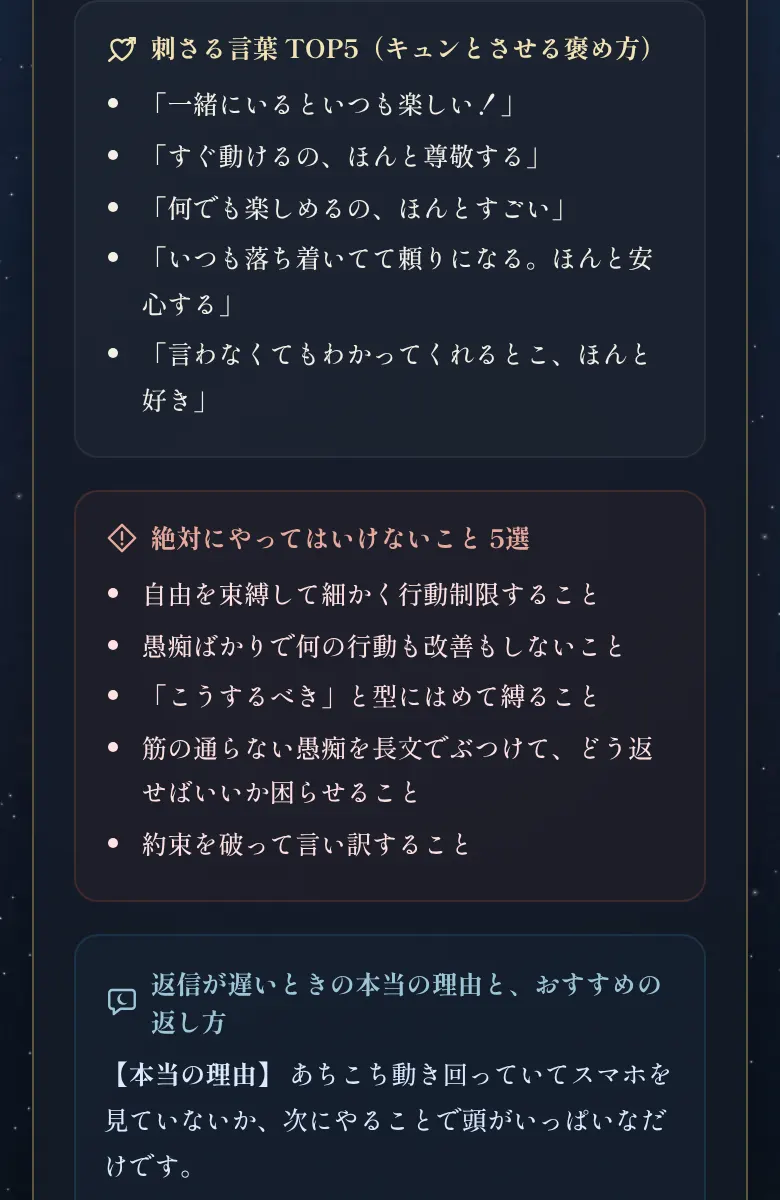
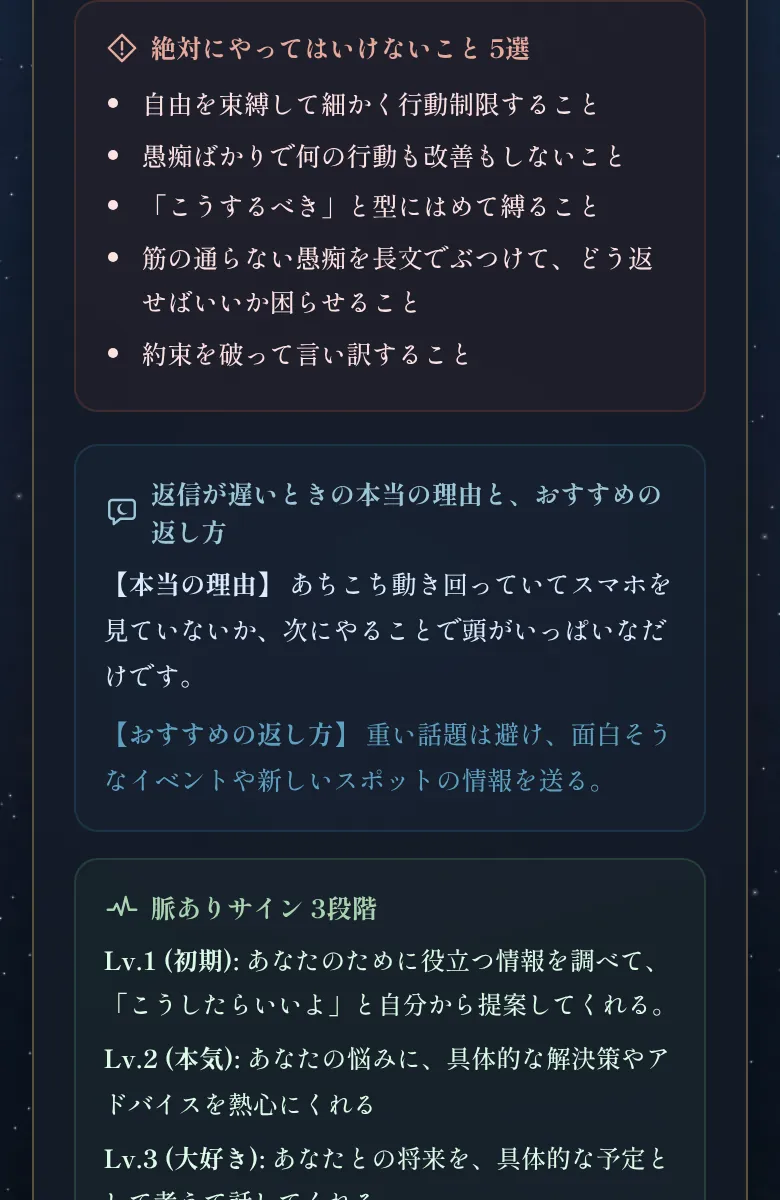
トリセツの「刺さる言葉 TOP5」を削除（LPの説明と画面イメージも「絶対にやってはいけないこと 5選」に）
Claude-Session: https://claude.ai/code/session_019582yCM5q7U2PSxyTAcm8e

diff --git a/src/components/ResultView.tsx b/src/components/ResultView.tsx
@@ -2752,58 +2752,6 @@ export const ResultView: React.FC<ResultViewProps> = ({
             </h2>
           </div>
 
-          {/* 1. 刺さる言葉 TOP5 (Item 1 & 2 visible, Item 3-5 blurred) */}
-          <div style={{ background: 'rgba(255,255,255,0.03)', padding: '0.85rem', borderRadius: '12px', border: '1px solid rgba(255,255,255,0.06)', position: 'relative' }}>
-            <div className="font-serif" style={{ fontSize: '0.8rem', fontWeight: 'bold', color: '#f2e2b3', marginBottom: '0.5rem', display: 'flex', alignItems: 'center', gap: '0.35rem' }}>
-              <PiercedHeartMark size={18} />
-              <span>刺さる言葉 TOP5（キュンとさせる褒め方）</span>
-            </div>
-            <ul className="font-serif" style={{ margin: 0, paddingLeft: '1.2rem', fontSize: '0.8rem', color: '#f3efe6', lineHeight: '1.75' }}>
-              {activeResult.opponentTorisetsu.killingWords.slice(0, 1).map((word, idx) => (
-                <li key={idx} style={{ marginBottom: '0.2rem' }}>{word.replace(/〇〇/g, oppNickname || 'お相手')}</li>
-              ))}
-            </ul>
-            <div style={{ position: 'relative', marginTop: '0.2rem' }}>
-              <ul className="font-serif" style={{
-                margin: 0,
-                paddingLeft: '1.2rem',
-                fontSize: '0.8rem',
-                color: '#f3efe6',
-                lineHeight: '1.75',
-                filter: !deepOpen ? 'blur(4.5px)' : 'none',
-                userSelect: !deepOpen ? 'none' : 'auto',
-                opacity: !deepOpen ? 0.6 : 1
-              }}>
-                {activeResult.opponentTorisetsu.killingWords.slice(1).map((word, idx) => (
-                  <li key={idx + 1} style={{ marginBottom: '0.2rem' }}>
-                    {lockedText(word.replace(/〇〇/g, oppNickname || 'お相手'), !deepOpen)}
-                  </li>
-                ))}
-              </ul>
-              {!deepOpen && (
-              <div style={{
-                position: 'absolute',
-                top: '50%',
-                left: '50%',
-                transform: 'translate(-50%, -50%)',
-                zIndex: 10,
-                width: '90%',
-                display: 'flex',
-                justifyContent: 'center',
-                pointerEvents: 'auto'
-              }}>
-                <button
-                  type="button"
-                  className="premium-lock-tag"
-                  onClick={handleDeepLockClick}
-                >
-                  <Lock size={11} /> {deepLockWord}
-                </button>
-              </div>
-            )}
-            </div>
-          </div>
-
           {/* 2. 絶対NG行動 5選 (Item 1 is visible teaser, Item 2-5 are blurred) */}
           <div style={{ background: 'rgba(207, 90, 67, 0.05)', padding: '0.85rem', borderRadius: '12px', border: '1px solid rgba(207, 90, 67, 0.2)', position: 'relative' }}>
             <div className="font-serif" style={{ fontSize: '0.8rem', fontWeight: 'bold', color: '#e6a99c', marginBottom: '0.5rem', display: 'flex', alignItems: 'center', gap: '0.35rem' }}>

diff --git a/src/components/PremiumLPModal.tsx b/src/components/PremiumLPModal.tsx
@@ -397,7 +397,7 @@ export const PremiumLPModal: React.FC<PremiumLPModalProps> = ({
               </h2>
               <div style={{ display: 'flex', flexDirection: 'column', gap: '0.7rem', marginBottom: '0.7rem' }}>
                 {([
-                  { who: 'ren', t: '刺さる言葉 TOP5 ＆ 絶対NG行動 5選', shot: '/assets/premium/edu-kotoba.webp', d: `${pair.name}がキュンとする褒め方と、言うと一気に冷めてしまう一言。ここは知っておいたほうがいいです。` },
+                  { who: 'ren', t: '絶対にやってはいけないこと 5選', shot: '/assets/premium/edu-kotoba.webp', d: `${pair.name}に言うと一気に冷めてしまう一言や、やってしまいがちな行動。ここは知っておいたほうがいいです。` },
                   { who: 'tsuki', t: '返信が遅いときの心理 ＆ 脈ありサイン 3段階', shot: '/assets/premium/edu-reply.webp', d: '既読のまま止まったとき、あの人が何を考えているのか。今どの段階にいるのか、少し離れかけたときの戻し方まで、一緒に見ていきましょうね。' },
                   { who: 'ren', t: '惹かれ合うポイント ＆ 地雷行動 3選', shot: '/assets/premium/edu-hikare.webp', d: '二人の組み合わせだからこそ起きやすい、すれ違いのパターンがあります。先に知っておけば、避けられますよ。' },
                   { who: 'tsuki', t: '6つの相性グラフ ＆ 二人のこれから', shot: '/assets/premium/edu-radar.webp', d: '恋愛・会話・結婚・信頼などの相性と、関係が進みやすい時期。動くタイミングを、一緒に読んでいきましょうね。' },
